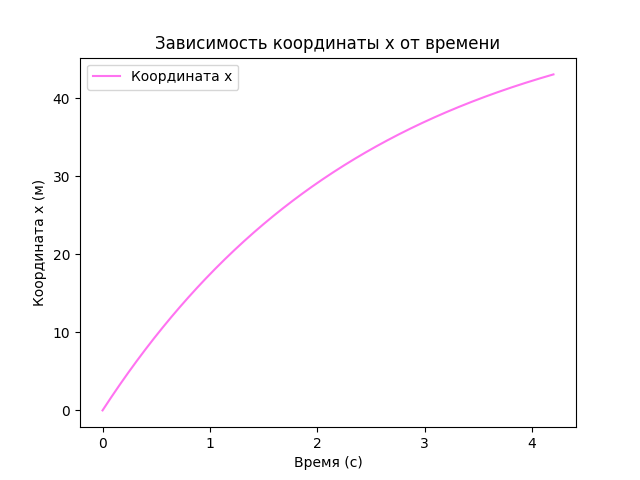
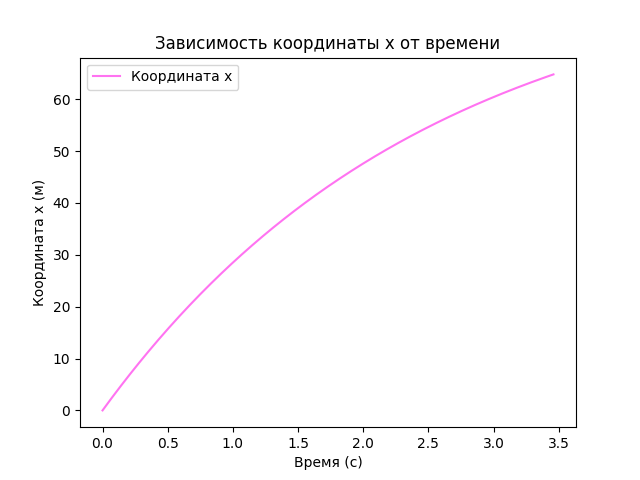
Feat: add lection 5,6,7 task

diff --git a/README.md b/README.md
@@ -1,1 +1,126 @@
 # Physics-LectionTask-5-6-7
+# Задание 1
+
+> Моделирование движения тела, брошенного под углом к горизонту с учетом силы
+сопротивления воздуха. Сила сопротивления воздуха пропорциональна скорости
+движения тела $\vec𝐹 = −𝑘\vec𝜐$ . 
+>Входные параметры: 
+>+ начальная скорость
+>+ угол между вектором скорости и линией горизонта
+>+ высота, с которой брошено тело
+>+ коэффициент сопротивления среда 𝑘 
+>>Результат: графики (траектория движения тела, зависимость скорости и координат от
+времени)
+Обосновать выбранный способ решения ОДУ численными методами (пояснить, какой метод
+был использован и почему). 
+
+
+## Теоретическое обоснование
+
+Рассмотрим движение тела, брошенного под углом к горизонту с учетом силы сопротивления воздуха, которая пропорциональна скорости движения тела и описывается формулой:
+
+$\vec{F} = -k \vec{\nu}$
+
+где:
+- $k$— коэффициент сопротивления воздуха,
+- $\vec{\nu}$ — вектор скорости тела.
+
+С учетом силы сопротивления воздуха, уравнения движения тела в проекциях на оси \( x \) и \( y \) можно записать как систему дифференциальных уравнений второго порядка:
+
+$m \frac{d v_x}{dt} = -k v_x$
+
+$m \frac{d v_y}{dt} = -mg - k v_y$
+
+где $g$ — ускорение свободного падения. Разделим обе стороны на массу  $m$ и получим ускорения по осям $x$ и $y$:
+
+$a_x = -\frac{k}{m} v_x$
+
+$a_y = -g - \frac{k}{m} v_y$
+
+Таким образом, ускорение $a_x$ зависит от горизонтальной компоненты скорости $v_x$, а ускорение $a_y$ — от вертикальной компоненты скорости $v_y$ и гравитационного ускорения.
+
+## Обоснование выбранного метода численного решения ОДУ
+
+Для решения системы дифференциальных уравнений используется метод Рунге-Кутты 4-го порядка. Этот метод является одним из наиболее популярных и устойчивых методов для численного решения ОДУ. Преимущества метода:
+- Высокая точность даже при сравнительно больших шагах интегрирования.
+- Устойчивость при решении задач с изменяющимися ускорениями, как в данном случае (сила сопротивления и сила тяжести).
+
+Метод Рунге-Кутты 4-го порядка позволяет рассчитать новое значение скорости и положения тела, учитывая среднее значение ускорения за каждый шаг интегрирования.
+
+## Входные параметры
+
+- **Начальная скорость** $v_0$ — скорость, с которой тело бросается.
+- **Угол броска** $\theta$ — угол между вектором начальной скорости и горизонтом.
+- **Высота броска**  $h$ — начальная высота над землей, с которой тело брошено.
+- **Коэффициент сопротивления среды** $k$ — коэффициент пропорциональности силы сопротивления воздуха.
+
+## Выходные данные
+
+Программа выводит следующие графики:
+- **Траектория движения тела** (анимация), где показан путь, пройденный телом с учетом сопротивления воздуха.
+- **График зависимости скорости от времени** — показывает, как изменяется скорость тела в течение времени.
+- **График зависимости координаты \( x \) от времени** — показывает, как изменяется горизонтальное положение тела со временем.
+
+## Пример
+Тело брошено с высоты 1.50 $м$, с начальной скоростью 40 $м/с^2$ под углом 40 градусов, при коэффициенте сопротивления воздуха 0.4.
+
+![ballistic_trajectory_with_resistance.gif](ballistic_trajectory_with_resistance.gif)
+
+![coordinate_time_with_resistance.png](coordinate_time_with_resistance.png)
+
+![speed_time_with_resistance.png](speed_time_with_resistance.png)
+
+# Задание 2
+> Моделирование потенциального поля. Визуализировать двумерное распределение
+потенциальное энергии U (x,y). Входные параметры: зависимость равнодействующей
+всех сил, действующих на тело от координат $\vec𝐹(𝑥, 𝑦)$ . При моделировании можно
+использовать известные силы из механики (упругости, гравитации, тяжести) или
+неизвестные силы, выраженные, как степенные функции от координат. 
+
+## Теоретическая часть
+Силовой поле называют ***потенциальным***, если имеется силовая функция U, зависящая от координат точки и времени для нестационарного силового поля.
+
+## Формулы
+
+#### Сила тяжести
+Сила тяжести действует на груз вертикально вниз:
+$F_{\text{т}} = m \cdot g$
+
+#### Сила упругости
+Сила упругости определяется по закону Гука:
+$F_{\text{упр}} = -k \cdot (r - L) \cdot \frac{\vec{r}}{r}$
+где \( r \) — текущее расстояние от начала координат до точки, \( L \) — длина пружины в равновесии.
+
+#### Потенциальная энергия системы
+Полная потенциальная энергия \( U(x, y) \) складывается из:
+1. **Потенциальной энергии упругости**:
+   $U_{\text{упр}} = \frac{1}{2} k (r - L)^2$
+2. **Потенциальной энергии силы тяжести**:
+   $U_{\text{т}} = m \cdot g \cdot y$
+
+Общая потенциальная энергия:
+$U(x, y) = U_{\text{упр}} + U_{\text{т}}$
+
+## Реализация
+
+В коде рассчитывается результирующая сила и потенциальная энергия в зависимости от положения груза. Потенциальное поле визуализируется с использованием `matplotlib` в виде анимации, в которой цветовая шкала указывает значение потенциальной энергии в каждый момент времени. 
+
+
+## Пример
+Потенциальное поле при учете сил тяжести и упругости действующих на груз на пружине.
+- \( m = 4 \) кг — масса груза,
+- \( g = 9.81 \) м/с² — ускорение свободного падения,
+- \( L = 0.3 \) м — длина пружины в равновесии,
+- \( k = 100 \) Н/м — жесткость пружины.
+
+![Пример анимации](potential_energy_field_oscillation.gif)
+
+
+## Источники
+[eduspb.com](https://www.eduspb.com/node/1669)
+
+[lisakov.com](https://lisakov.com/blog/air-resistance/)
+
+[pashinin.com](https://baumanka.pashinin.com/IU2/sem4/%D0%A2%D0%B5%D1%80%D0%BC%D0%B5%D1%85/%D0%9B%D0%B5%D0%BA%D1%86%D0%B8%D0%B8/Nikitin/4%20%D0%9E%D0%B1%D1%89%D0%B8%D0%B5%20Th%20%D0%B4%D0%B8%D0%BD%D0%B0%D0%BC%D0%B8%D0%BA%D0%B8%20%D0%A2%20%D0%B8%20%D1%81%D0%B8%D1%81%D1%82/4.6%20%D0%9F%D0%BE%D1%82%D0%B5%D0%BD%D1%86-%D0%BE%D0%B5%20%D1%81%D0%B8%D0%BB%D0%BE%D0%B2%D0%BE%D0%B5%20%D0%BF%D0%BE%D0%BB%D0%B5.pdf)
+
+[studFiles](https://studfile.net/preview/1967415/page:2/)
